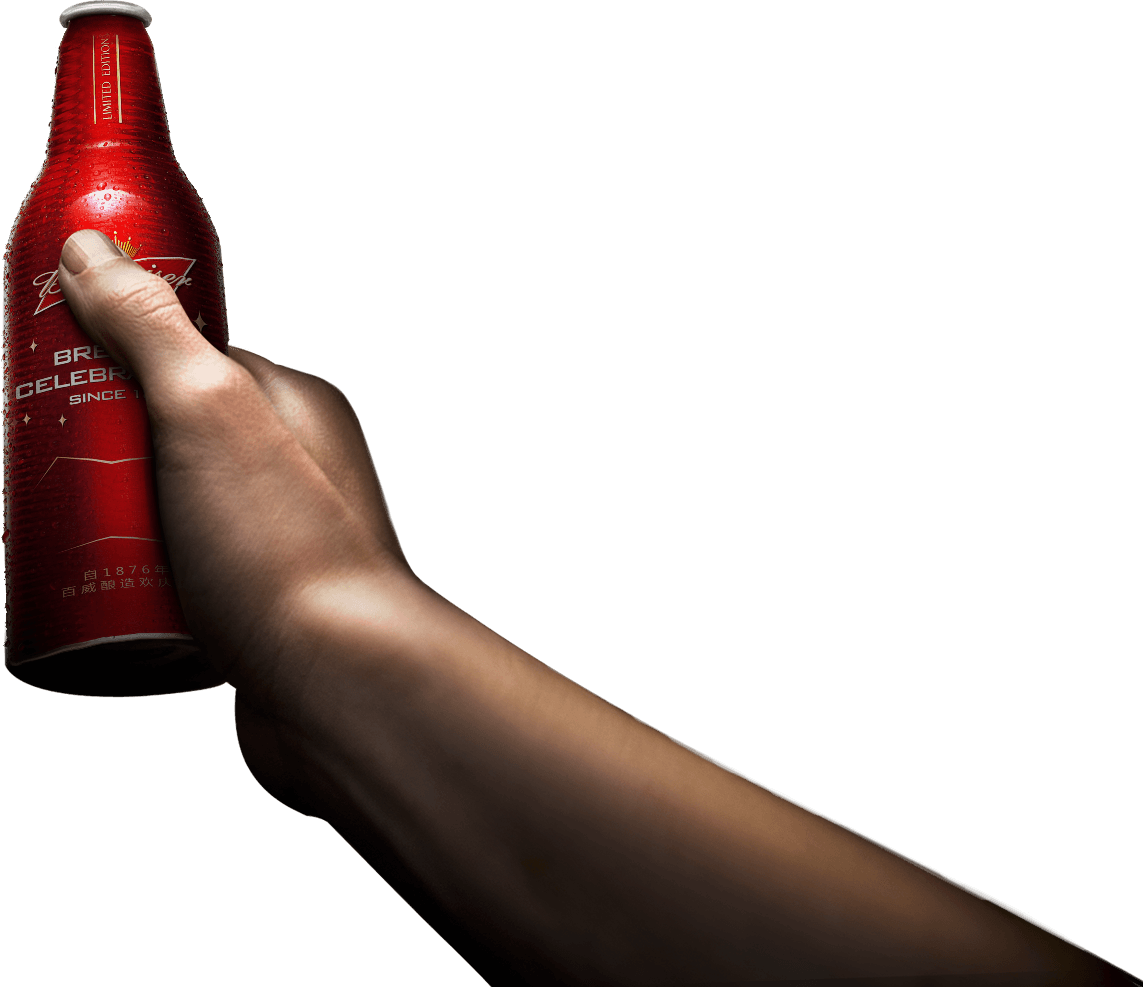
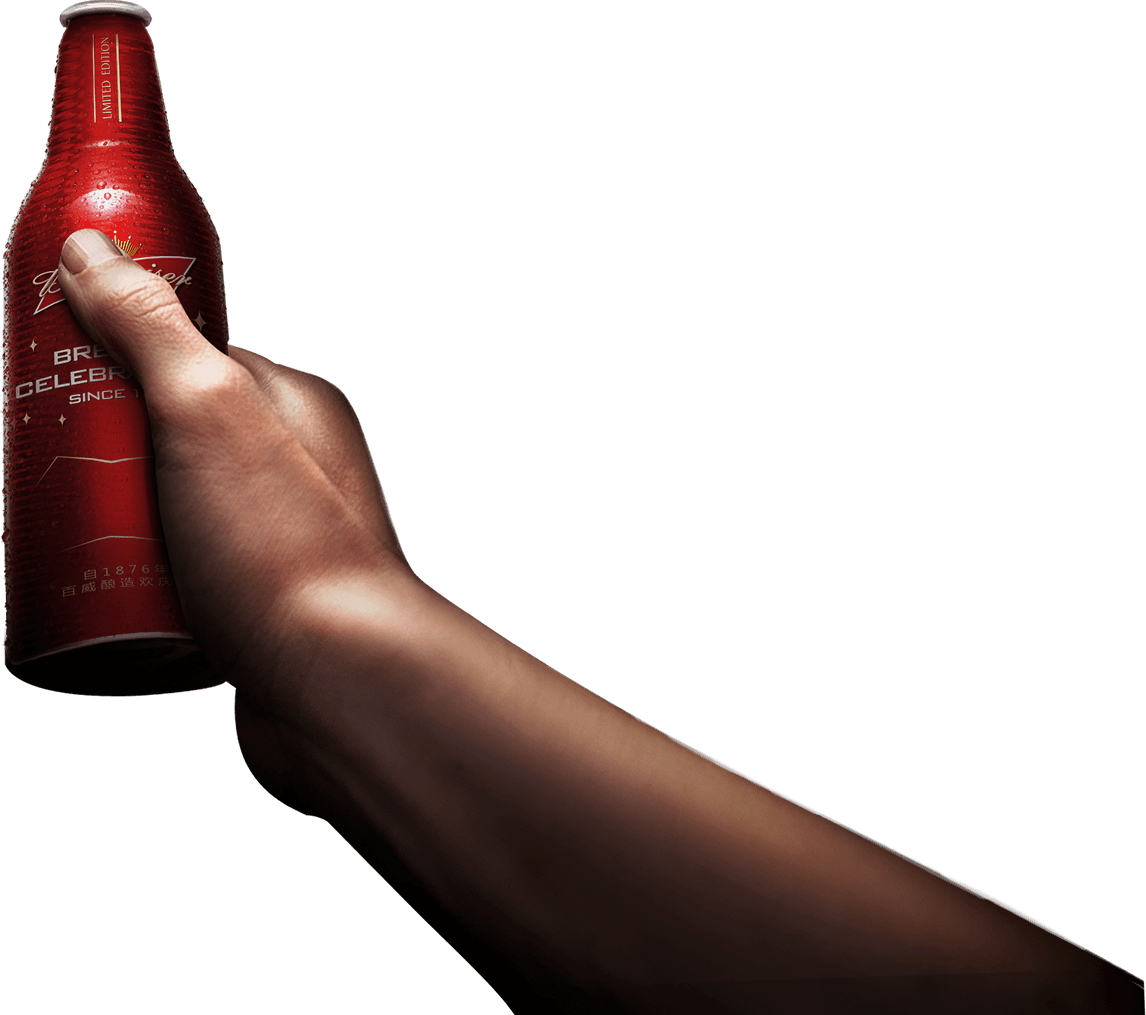
replace hand picture

diff --git a/site/src/less/toy.less b/site/src/less/toy.less
@@ -3,8 +3,8 @@
   top: 100%;
   right: -3.5%;
   display: inline-block;
-  width: 59.53125%;
-  height: 91.389%;
+  width: 59.6875%;
+  height: 93.9814815%;
   background: url('../img/hand.png');
   background-size: cover;
 }
